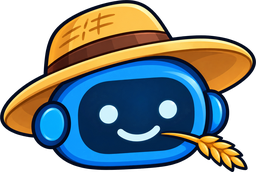
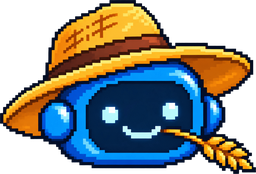
Village: pixel-art background, task board picture and Bridgy's new head

diff --git a/js/ui/village.js b/js/ui/village.js
@@ -93,7 +93,7 @@ export class VillageView {
     const r = village.cfg.requests || {};
     if (village.requestsOpen) {
       const left = village.requests().list.filter((q) => !q.done).length;
-      spots.push(this.spot({ x: r.x ?? 44, y: r.y ?? 33, w: r.w ?? 7 }, pixelImg(sprites.url('village:board', 4), '', ''), this.app.i18n.t('ui.villageBoard'), left ? `📜 ${left}` : '✓', 'board', 'repaired'));
+      spots.push(this.spot({ x: r.x ?? 44, y: r.y ?? 36, w: r.w ?? 9 }, h('img', { src: 'assets/village/board.png', alt: '' }), this.app.i18n.t('ui.villageBoard'), left ? `📜 ${left}` : '✓', 'board', 'repaired'));
     }
     this.map.replaceChildren(...[...this.map.children].slice(0, 2), ...spots);
     this.panel.replaceChildren(...(this.selected === 'board' ? this.board() : this.buildingPanel(village.building(this.selected))));
@@ -219,62 +219,57 @@ export class VillageView {
     this.refresh();
   }
 
-  // The meadow in isometric tiles, the river under the bridge (down-right, like the bridge's stream),
-  // Bridgy's field on the near bank, and dirt roads: field → bridge → square → every building.
+  // A pixel-art meadow in the buildings' style, drawn pixel by pixel (each art pixel is 2×2): textured
+  // grass, the river under the bridge (down-right, like the bridge's stream) between grey stone banks,
+  // Bridgy's field on the near bank, pebbled dirt roads (field → bridge → square → every building),
+  // and bushes with flowers.
   background() {
-    const cv = h('canvas', { class: 'pixel village-bg', width: W, height: H });
+    const S = 2;
+    const cv = h('canvas', { class: 'village-bg', width: W * S, height: H * S });
     const ctx = cv.getContext('2d');
-    const at = (b) => [(b.x * W) / 100, (b.y * H) / 100];
-    const poly = (color, pts) => {
-      ctx.fillStyle = color;
-      ctx.beginPath();
-      pts.forEach(([x, y], i) => (i ? ctx.lineTo(x, y) : ctx.moveTo(x, y)));
-      ctx.fill();
+    const img = ctx.createImageData(W * S, H * S);
+    const grid = new Uint32Array(W * H); // 0xRRGGBB per art pixel
+    const noise = (x, y, k = 0) => {
+      let n = (Math.imul(x, 374761393) + Math.imul(y, 668265263) + Math.imul(k, 1442695041)) | 0;
+      n = Math.imul(n ^ (n >>> 13), 1274126177);
+      return ((n ^ (n >>> 16)) >>> 0) / 4294967296;
     };
-    for (let r = 0; r * 4 < H + 8; r++) {
-      for (let c = -1; c * 16 < W + 16; c++) {
-        const x = c * 16 + (r % 2) * 8;
-        const y = r * 4;
-        poly(r % 2 ? '#a3d571' : '#9bcf69', [[x, y - 4], [x + 8, y], [x, y + 4], [x - 8, y]]);
+    const set = (x, y, c) => {
+      if (x >= 0 && y >= 0 && x < W && y < H) grid[(y | 0) * W + (x | 0)] = c;
+    };
+    const get = (x, y) => grid[(y | 0) * W + (x | 0)];
+    const pick = (r, list) => list.find(([p]) => (r -= p) < 0)[1];
+    // grass: clumps of four greens
+    for (let y = 0; y < H; y++) {
+      for (let x = 0; x < W; x++) {
+        const r = noise(x >> 2, y >> 1, 1) * 0.6 + noise(x, y, 2) * 0.4;
+        set(x, y, pick(r, [[0.18, 0x5aa83a], [0.6, 0x6cba44], [0.2, 0x7bc94f], [1, 0x92d95e]]));
       }
     }
-    for (let i = 0; i < 260; i++) {
-      const n = (i * 2654435761) >>> 0;
-      ctx.fillStyle = i % 9 === 0 ? (i % 2 ? '#ffffff' : '#ffe066') : '#7fb552';
-      ctx.fillRect(n % W, (n >>> 12) % H, i % 9 === 0 ? 1 : 2, 1);
+    // Bridgy's field: furrows with sprouts, and a fence
+    for (let y = 205; y < 262; y++) {
+      for (let x = 16; x < 120; x++) {
+        const u = x - 2 * (y - 205); // along the rows (up-right)
+        const v = x / 2 + (y - 205); // across them
+        if (u < -70 || u > 30 || v < 12 || v > 76) continue;
+        const row = Math.floor(v / 8);
+        const inRow = v - row * 8;
+        set(x, y, inRow < 2 ? 0x7a4e2e : inRow < 6 ? (noise(x, y, 3) < 0.15 ? 0x8a5a36 : 0x9a6a44) : 0x6cba44);
+        if (inRow >= 2 && inRow < 4 && (x + row * 3) % 7 === 0) {
+          set(x, y - 1, 0x4fae32);
+          set(x - 1, y - 2, 0x6fd046);
+          set(x + 1, y - 2, 0x6fd046);
+        }
+      }
     }
-    const band = (extra) => [[0, RIVER.at - extra], [W, RIVER.at + W / 2 - extra], [W, RIVER.at + W / 2 + extra], [0, RIVER.at + extra]];
-    const half = RIVER.width / 2;
-    poly('#6aa84a', band(half + 5));
-    poly('#e3c68d', band(half + 3));
-    poly('#2f80d8', band(half));
-    poly('#3ea6ee', band(half - 3));
-    ctx.fillStyle = '#bfeeff';
-    for (let x = 6; x < W; x += 23) for (const k of [-6, 5]) ctx.fillRect(x + ((x * 7) % 11), x / 2 + RIVER.at + k + ((x * 3) % 5), 6, 1);
-    // Bridgy's field: rows of soil with sprouts, on the near (lower-left) bank.
-    for (let i = 0; i < 4; i++) {
-      const x = 24 + i * 12;
-      const y = 238 + i * 6;
-      poly('#9a6a44', [[x, y], [x + 40, y - 20], [x + 48, y - 16], [x + 8, y + 4]]);
-      ctx.fillStyle = '#5fbf3a';
-      for (let k = 0; k < 5; k++) ctx.fillRect(x + 6 + k * 8, y - 3 - k * 4, 2, 2);
-    }
-    // Roads along the isometric axes: an L from a to b (up-right first, then down-right).
+    // roads: L-shaped along the isometric axes, dirt with pebbles and darker edges
+    const segs = [];
     const road = (a, b) => {
-      const s = ((b[0] - a[0]) / 2 - (b[1] - a[1])) / 2;
-      const corner = [a[0] + 2 * s, a[1] - s];
-      for (const [color, width] of [['#b88a50', 9], ['#d6ad6b', 7]]) {
-        ctx.strokeStyle = color;
-        ctx.lineWidth = width;
-        ctx.lineJoin = 'round';
-        ctx.lineCap = 'round';
-        ctx.beginPath();
-        ctx.moveTo(...a);
-        ctx.lineTo(...corner);
-        ctx.lineTo(...b);
-        ctx.stroke();
-      }
+      const k = ((b[0] - a[0]) / 2 - (b[1] - a[1])) / 2;
+      const c = [a[0] + 2 * k, a[1] - k];
+      segs.push([a, c], [c, b]);
     };
+    const at = (b) => [(b.x * W) / 100, (b.y * H) / 100];
     const v = this.village;
     const bridge = v.building('Bridge');
     const square = v.buildings.find((b) => b.icon === 'square') || bridge;
@@ -285,6 +280,84 @@ export class VillageView {
       road([bx + reach, by - reach / 2], at(square));
       for (const b of v.buildings) if (b !== bridge && b !== square) road(at(square), [at(b)[0], at(b)[1] + ((b.w ?? 17) * W) / 100 / 5]);
     }
+    for (const [[x1, y1], [x2, y2]] of segs) {
+      const len = Math.hypot(x2 - x1, y2 - y1) || 1;
+      for (let y = Math.floor(Math.min(y1, y2) - 6); y <= Math.max(y1, y2) + 6; y++) {
+        for (let x = Math.floor(Math.min(x1, x2) - 6); x <= Math.max(x1, x2) + 6; x++) {
+          const t = Math.max(0, Math.min(1, ((x - x1) * (x2 - x1) + (y - y1) * (y2 - y1)) / (len * len)));
+          const d = Math.hypot(x - x1 - t * (x2 - x1), y - y1 - t * (y2 - y1));
+          if (d > 4.6 || x < 0 || y < 0 || x >= W || y >= H) continue;
+          const old = get(x, y);
+          if (d > 3.4) {
+            if (old !== 0xc9965a && old !== 0xd6a76c && old !== 0x9c8d80) set(x, y, 0xa0703f);
+          } else set(x, y, noise(x, y, 4) < 0.05 ? 0x9c8d80 : noise(x >> 1, y, 5) < 0.5 ? 0xc9965a : 0xd6a76c);
+        }
+      }
+    }
+    // the river: water between stone banks
+    const half = RIVER.width / 2;
+    for (let y = 0; y < H; y++) {
+      for (let x = 0; x < W; x++) {
+        const d = y - (x / 2 + RIVER.at);
+        const a = Math.abs(d);
+        if (a < half) {
+          const edge = half - a;
+          let c = edge < 3 ? 0x1f6cc4 : edge < 7 ? 0x2b84dc : 0x3597ea;
+          if (noise(Math.floor((x - 2 * y) / 9), y >> 1, 6) < 0.12 && edge > 4) c = 0x7fcaf8;
+          if (noise(x >> 2, y, 7) < 0.02 && edge > 4) c = 0xe8f8ff;
+          set(x, y, c);
+        } else if (a < half + 7) {
+          const k = a - half; // 0 at the water … 6 at the grass
+          const block = Math.floor((x + (d < 0 ? 0 : 4)) / 8);
+          const tone = [0x8b939b, 0x9aa2aa, 0x7d858c][Math.floor(noise(block, d < 0 ? 1 : 2, 8) * 3)];
+          let c = k > 6 ? 0x3c3f42 : (x + (d < 0 ? 0 : 4)) % 8 === 0 || k === 3 ? 0x5c636b : k > 5 ? 0xb9c0c6 : tone;
+          if (k >= 6) c = 0x3c3f42;
+          if (noise(x, y, 9) < 0.07) c = 0x5ea83d;
+          set(x, y, c);
+        }
+      }
+    }
+    // bushes and flowers on the grass (never on the water, the roads or the field)
+    const grass = new Set([0x5aa83a, 0x6cba44, 0x7bc94f, 0x92d95e]);
+    for (let i = 0; i < 70; i++) {
+      const cx = Math.floor(noise(i, 1, 10) * W);
+      const cy = Math.floor(noise(i, 2, 10) * H);
+      const r = 3 + Math.floor(noise(i, 3, 10) * 4);
+      if (![[0, 0], [r, 0], [-r, 0], [0, r]].every(([dx, dy]) => grass.has(get(cx + dx, Math.min(H - 1, cy + dy))))) continue;
+      for (let y = -r - 1; y <= r + 1; y++) {
+        for (let x = -r - 1; x <= r + 1; x++) {
+          const q = (x * x) / (r * r) + (y * y) / (r * r * 0.7);
+          if (q > 1.35) continue;
+          set(cx + x, cy + y, q > 1 ? 0x24461e : x + y < -r * 0.6 ? 0x8fdc5a : x + y > r * 0.5 ? 0x3b8a2c : 0x5cb83c);
+        }
+      }
+      if (i % 2) for (const [dx, dy] of [[-1, -1], [2, 0]]) set(cx + dx, cy + dy, 0xffffff);
+    }
+    for (let i = 0; i < 160; i++) {
+      const x = Math.floor(noise(i, 4, 11) * W);
+      const y = Math.floor(noise(i, 5, 11) * H);
+      if (!grass.has(get(x, y))) continue;
+      if (i % 4) {
+        set(x, y, 0x4a9a30);
+        set(x + 1, y - 1, 0x4a9a30);
+        set(x + 2, y, 0x4a9a30);
+      } else {
+        set(x, y, i % 8 ? 0xffffff : 0xffd84a);
+        set(x, y + 1, 0x4a9a30);
+      }
+    }
+    // art pixels → canvas pixels
+    for (let y = 0; y < H * S; y++) {
+      for (let x = 0; x < W * S; x++) {
+        const c = grid[((y / S) | 0) * W + ((x / S) | 0)];
+        const o = (y * W * S + x) * 4;
+        img.data[o] = c >> 16;
+        img.data[o + 1] = (c >> 8) & 255;
+        img.data[o + 2] = c & 255;
+        img.data[o + 3] = 255;
+      }
+    }
+    ctx.putImageData(img, 0, 0);
     return cv;
   }
 }

diff --git a/js/ui/sprites.js b/js/ui/sprites.js
@@ -164,7 +164,6 @@ export class SpriteBook {
     this.put('machine:Mill', millMachine());
     this.put('machine:JamPot', jamPot());
     this.put('machine:Tonir', tonir());
-    this.put('village:board', noticeBoard()); // (the buildings are pictures: assets/village)
 
     // --- research icons
     this.put('icon:hat', sideHat('#f2c04d', '#2b6fd6'));
@@ -722,22 +721,6 @@ function tonir() {
   p.shade('#c47a4a', '#e09a68', '#8e5232');
   p.ellipse(8, 11.5, 3, 2.5, PAL.darkBrown);
   p.rect(5, 12, 6, 3, PAL.darkBrown);
-  p.outline(PAL.outlineBrown);
-  return p;
-}
-
-// The villagers' requests board on the village map: a small tiled roof, posts and paper notes.
-function noticeBoard() {
-  const p = new Pixels(32, 32);
-  p.rect(6, 14, 2, 17, PAL.brown).rect(24, 14, 2, 17, PAL.brown);
-  p.rect(3, 9, 26, 15, PAL.lightBrown);
-  p.shade(PAL.lightBrown, PAL.tan, PAL.brown);
-  p.rect(5, 11, 22, 11, '#c9925a');
-  p.polygon([[1, 10], [16, 2], [31, 10]], PAL.red);
-  p.shade(PAL.red, PAL.brightRed, '#7a1620');
-  p.rect(7, 12, 6, 7, PAL.white).rect(15, 13, 5, 6, '#fff1b8').rect(22, 12, 4, 5, PAL.white);
-  for (const [x, y] of [[8, 14], [9, 16], [16, 15], [23, 14]]) p.rect(x, y, 3, 1, PAL.grey);
-  p.set(10, 12, PAL.brightRed).set(17, 13, PAL.blue).set(24, 12, PAL.brightRed);
   p.outline(PAL.outlineBrown);
   return p;
 }

diff --git a/config/README.md b/config/README.md
@@ -312,7 +312,7 @@ repaired, Bridgy tells a chapter of the story and it unlocks new things.
 |---|---|
 | `buildings` | `id`, `name`, `icon` (the picture `assets/village/<icon>.png` and its ruin `assets/village/<icon>-ruin.png`: `bridge, mill, jamhouse, bakery, greenhouse, school, square`; a new building needs both pictures), `x`/`y` (the picture's centre on the map, % from the left/top), `w` (its width, % of the map; default 17), `after` (buildings that must be repaired first), `description`, `cost` (`{ "Wood": 300, "Star": 3 }`), `grants` (like research: `functions`, `machines`, `hats`), `story` (Bridgy's pages after the repair, like lessons: `text`, `code`, `quiz`), `available: false` (shows «Շուտով») |
 | `intro`, `finale` | Bridgy's pages the first time the village opens, and when every building is repaired |
-| `requests` | The requests board, opened by `building`: every day `perDay` villagers ask for items the student has already gathered, at least the number in `items` or `share` (2%) of everything they ever gathered of it. Each done request gives `stars` ⭐, all of them `bonus` ⭐ more. `villagers`: `name`, `face` (an emoji) or `portrait` (a picture), `lines` with `{amount}` and `{item}`. `x`/`y`/`w`: the board on the map |
+| `requests` | The requests board, opened by `building`: every day `perDay` villagers ask for items the student has already gathered, at least the number in `items` or `share` (2%) of everything they ever gathered of it. Each done request gives `stars` ⭐, all of them `bonus` ⭐ more. `villagers`: `name`, `face` (an emoji) or `portrait` (a picture), `lines` with `{amount}` and `{item}`. `x`/`y`/`w`: the board (`assets/village/board.png`) on the map |
 | `machines` | `Mill`, `JamPot`, `Tonir`: `cost` to build one on the farm, `recipes` (`"Flour": { "in": { "Hay": 20 }, "seconds": 5 }`) |
 | `boosts` | Dishes that can be eaten: `kind` (`speed` = the drone, `growth` = the plants, `goldenFish`), `multiplier`, `seconds` (game time; eating again adds more) |
 | `greenhouse` | `cost` of one glass square |

diff --git a/assets/CREDITS.md b/assets/CREDITS.md
@@ -3,11 +3,11 @@
 | Asset | Author | License |
 |---|---|---|
 | `bridgy/bridgy.png` (Bridgy the robot farmer) | The game's owner (from `Pixel Art Robot Farmer Sprite.png`) | Owned by the school |
-| `bridgy/bridgy-head.png` (Bridgy's head: the logo, the help button, the page icon) | The game's owner (from `Friendly Blue Robot Farmer Mascot.png`) | Owned by the school |
-| `village/*.png` (the village buildings and their ruins: bridge, watermill, jam cottage, bakery, greenhouse, schoolhouse, market square) | The game's owner (from the isometric pixel-art pictures, cropped and scaled to 480 px) | Owned by the school |
+| `bridgy/bridgy-head.png` (Bridgy's head: the logo, the help button, the page icon) | The game's owner (from `Pixel Robot Farmer Hat Emote.png`) | Owned by the school |
+| `village/*.png` (the village buildings and their ruins: bridge, watermill, jam cottage, bakery, greenhouse, schoolhouse, market square, the requests board) | The game's owner (from the isometric pixel-art pictures, cropped and scaled to 480 px) | Owned by the school |
 | `sprites/drone.png` (the farm drone) | The game's owner (from `Retro Pixel Drone Icon.png`) | Owned by the school |
 | `sprites/crops-josehzz.png` — wheat (grass/hay), pumpkin ("orange"), sunflower | **josehzz** — [Farming crops 16x16](https://opengameart.org/content/farming-crops-16x16), profile: https://opengameart.org/users/josehzz | [CC0 1.0](http://creativecommons.org/publicdomain/zero/1.0/) |
-| Ground tiles, bush, tree, carrot, cactus, maze, treasure, apple, dinosaur, item and research icons, hats, kitchen machines, the requests board | Drawn in code (`js/ui/sprites.js`) for this game | Part of this project |
+| Ground tiles, bush, tree, carrot, cactus, maze, treasure, apple, dinosaur, item and research icons, hats, kitchen machines | Drawn in code (`js/ui/sprites.js`) for this game | Part of this project |
 | Sounds and music | Synthesised in code with WebAudio (`js/audio.js`) | Part of this project |
 
 Code libraries (in `vendor/`):
